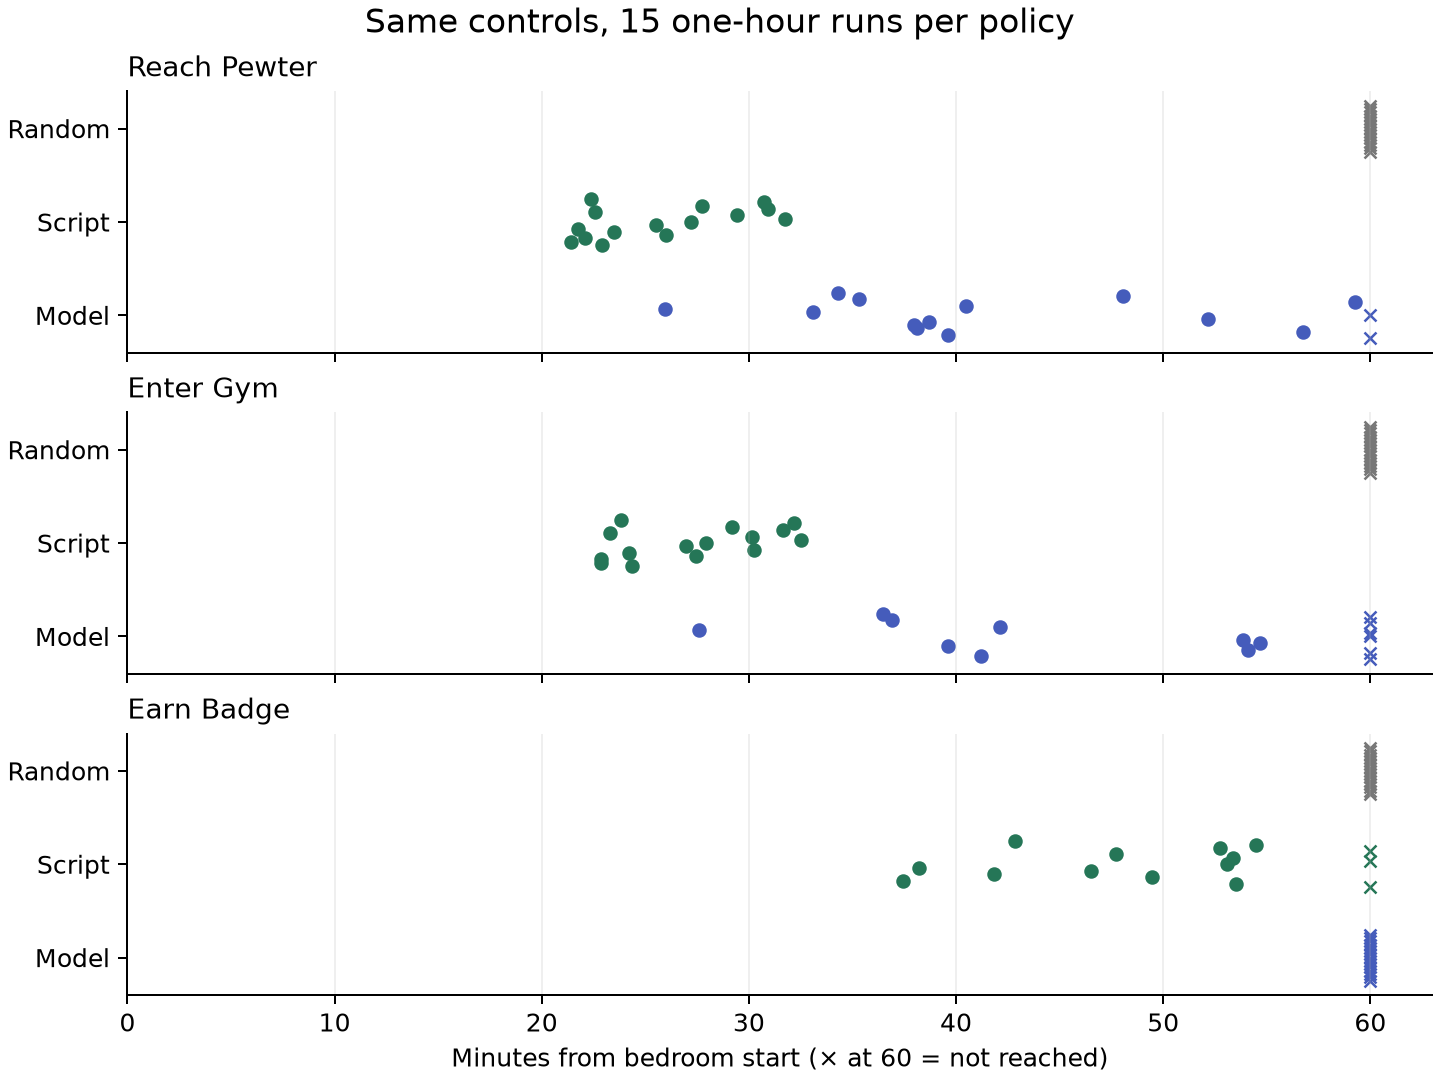
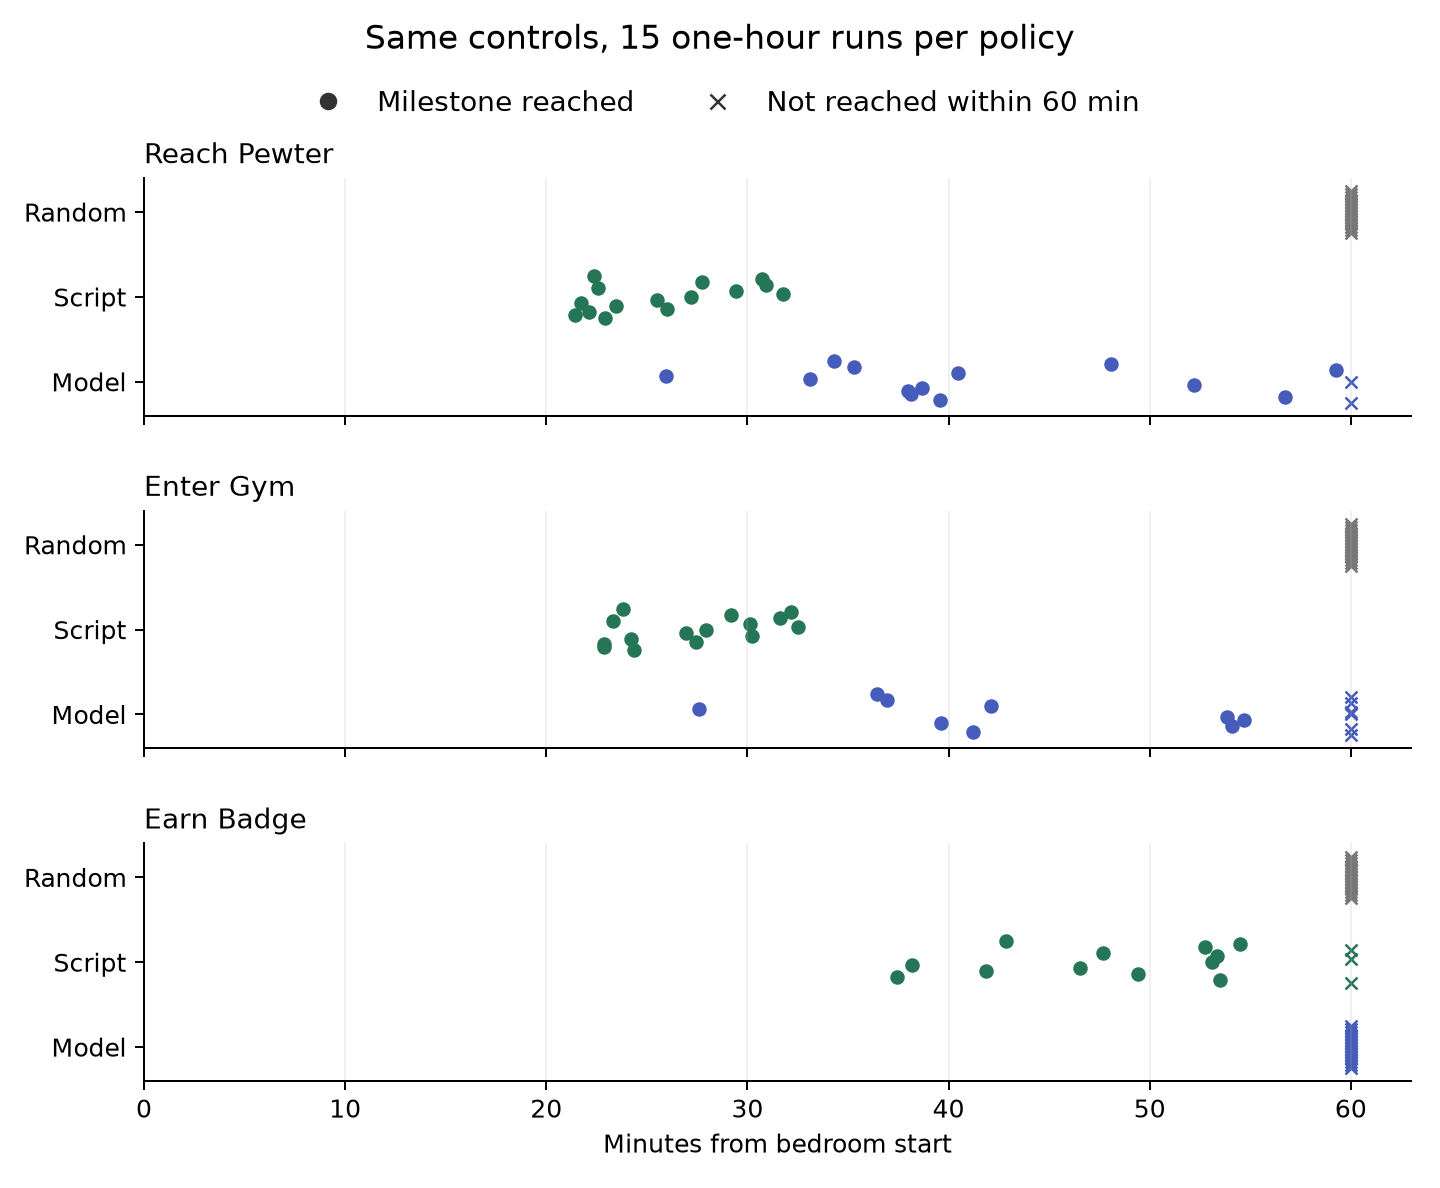
Add explicit milestone marker legend

diff --git a/results/fixed-controls/plot-milestones.py b/results/fixed-controls/plot-milestones.py
@@ -3,9 +3,10 @@ import csv
 import matplotlib
 matplotlib.use('Agg')
 import matplotlib.pyplot as plt
+from matplotlib.lines import Line2D
 root=Path(__file__).resolve().parents[2]
 rows=list(csv.DictReader((root/'results/fixed-controls/runs.csv').open()))
-fig,axes=plt.subplots(3,1,figsize=(8,6),sharex=True,layout='constrained')
+fig,axes=plt.subplots(3,1,figsize=(8,6.6),sharex=True)
 colors={'random':'#777777','scripted':'#257657','reactive':'#455cbb'}
 for ax,(field,title) in zip(axes,[('pewter_seconds','Reach Pewter'),('gym_seconds','Enter Gym'),('badge_seconds','Earn Badge')]):
  for y,policy in enumerate(['random','scripted','reactive']):
@@ -15,6 +16,11 @@ for ax,(field,title) in zip(axes,[('pewter_seconds','Reach Pewter'),('gym_second
    ax.scatter(t,y+(i-7)*.035,color=colors[policy],marker='o' if reached else 'x',s=23,linewidths=1)
  ax.set_yticks([0,1,2],['Random','Script','Model']);ax.set_title(title,loc='left',fontsize=11)
  ax.set_xlim(0,63);ax.set_ylim(2.4,-.4);ax.grid(axis='x',alpha=.2);ax.spines[['top','right']].set_visible(False)
-axes[-1].set_xlabel('Minutes from bedroom start (× at 60 = not reached)')
+axes[-1].set_xlabel('Minutes from bedroom start')
 fig.suptitle('Same controls, 15 one-hour runs per policy',fontsize=13)
+fig.legend(handles=[
+ Line2D([], [], color='#333333', marker='o', linestyle='None', label='Milestone reached'),
+ Line2D([], [], color='#333333', marker='x', linestyle='None', label='Not reached within 60 min'),
+], loc='upper center', bbox_to_anchor=(.5, .945), ncol=2, frameon=False, fontsize=11)
+fig.subplots_adjust(top=.85, bottom=.09, left=.1, right=.98, hspace=.4)
 fig.savefig(root/'images/fixed-controls/milestones.png',dpi=180)
